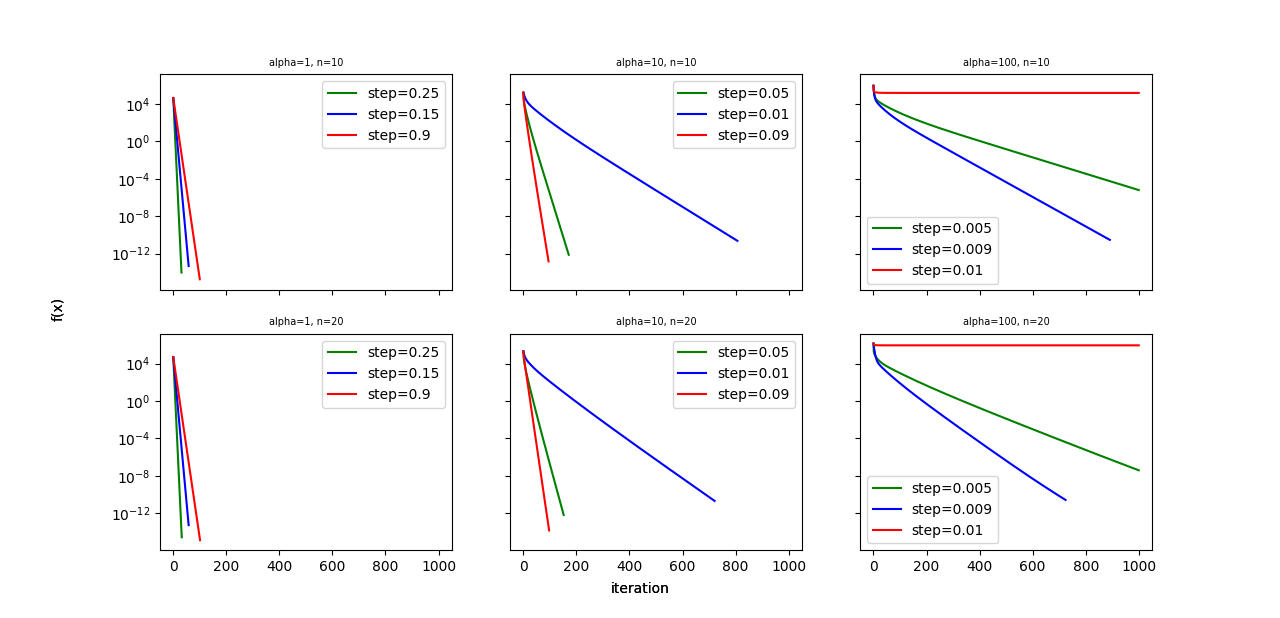
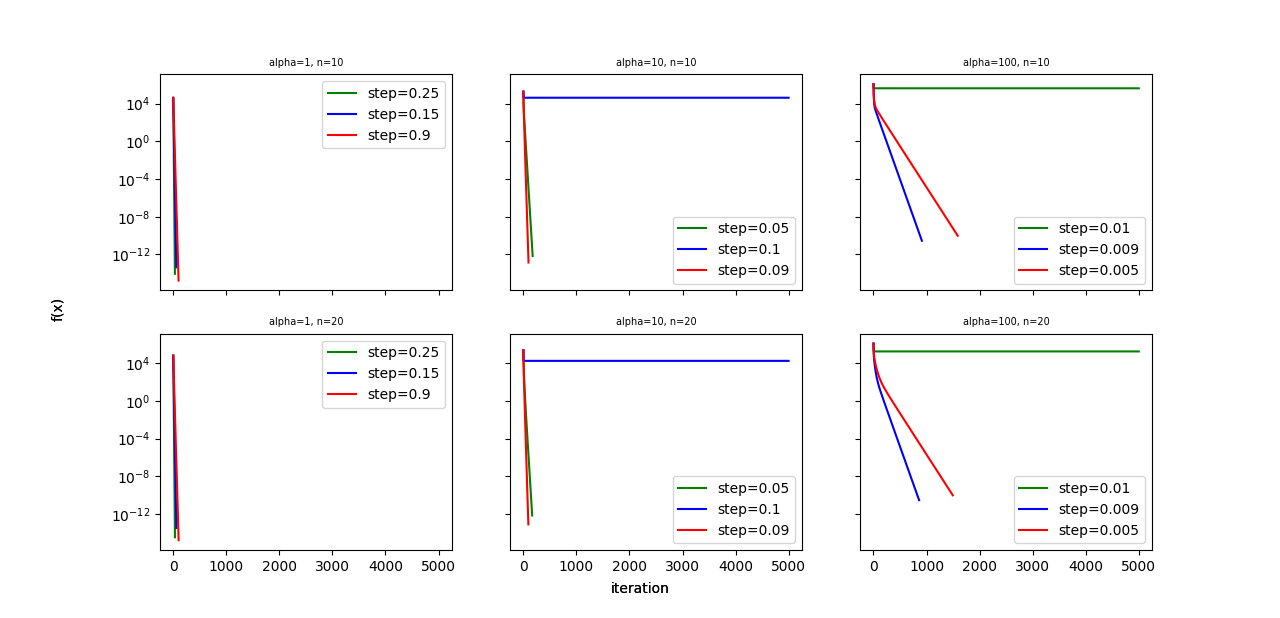
finished!

diff --git a/zadanie1/algorithms.py b/zadanie1/algorithms.py
@@ -12,108 +12,121 @@ from matplotlib import pyplot as plt
 MAX_X = 100
 
 
-# given function
 def f(x, alpha, n):
+    """
+    Objective function.
+    """
     result = 0
     for i in range(n):
         result += alpha**(i/(n-1))*x[i]**(2)
     return result
 
 
-gradient =  ndt.Gradient(f)
-hessian = ndt.Hessian(f)
+def message(iteration, max_iteration):
+    """
+    Returns message about why an algorithm finished working.
+    """
+    return "Algorithm reached iteration limit." if iteration == max_iteration else "Algorithm reached stop criterion."
 
-def gradientDescend(x0, func, step, alpha, n, error_margin=0.0000001, max_num_of_iter=1000):
+
+def gradientDescend(x0, func, step, error_margin=0.0000001, max_iteration=5000):
+    """
+    Implements gradient descend method of finding minimum od an objective function.
+
+    : param x0: array of begining co-ordinates
+    : param func: objective function
+    : param step: step of algorithm
+    : error_margin: defines the accuracy of stop criterion
+    : max_iteration: defines maximum number of iterations that the algorithm can perform
+    return: message why the algorithm finished working, co-ordinates of minimal value,
+            minimal value, number of iterations, value of function at every iteration (for plotting)
+    """
+    gradient =  ndt.Gradient(func)
+
     x = x0
     diff = x0
-    num_of_iterations = 0
-    y = [func(x0, alpha, n)]
+    iteration = 0
+    y = [func(x)]
 
     # stop criterion:
-    while np.linalg.norm(diff)>error_margin and num_of_iterations<max_num_of_iter:
+    while np.linalg.norm(diff)>error_margin and iteration<max_iteration:
         prev_x = x
-        d = gradient(prev_x, alpha, n)
+        d = gradient(prev_x)
         x = prev_x - step*d
 
         if any(abs(x))>100:
-            return (x, y, num_of_iterations)
+            return ("Divergent function", x, func(x), iteration)
 
         diff = prev_x-x
 
-        num_of_iterations += 1
-        y.append(func(x, alpha, n))
+        iteration += 1
 
-    return (x, y, num_of_iterations)
+        y.append(func(x))
+
+    return (message(iteration, max_iteration), x, func(x), iteration, y)
 
 
-def newton(x0, func, step, alpha, n, error_margin=0.0000001, max_num_of_iter=1000):
+def newton(x0, func, step, error_margin=0.0000001, max_iteration=5000):
+    """
+    Implements Newton's method of finding minimum od an objective function.
+
+    parameters the same as in gradientDescend
+    """
+    gradient =  ndt.Gradient(func)
+    hessian = ndt.Hessian(func)
+
     x = x0
     diff = x0
-    num_of_iterations = 0
-    y = [func(x0, alpha, n)]
-    # estymacja hessjanu:
-    #prev_inv_hess = np.linalg.inv(np.eye(n))
+    iteration = 0
+    y = [func(x)]
 
-    while np.linalg.norm(diff)>error_margin and num_of_iterations<max_num_of_iter:
+    while np.linalg.norm(diff)>error_margin and iteration<max_iteration:
         prev_x = x
         # d : hess(x)**(-1)*grad(x)
-        d = np.linalg.inv(hessian(prev_x, alpha, n))@gradient(prev_x, alpha, n)
-        # estymacja hesjanu:
-        #d = np.asarray(prev_inv_hess@gradient(x, alpha, n)).reshape(-1)
+        d = np.linalg.inv(hessian(prev_x))@gradient(prev_x)
 
         x = prev_x - step*d
         diff = prev_x-x
 
-        num_of_iterations += 1
-        y.append(func(x, alpha, n))
+        iteration += 1
+        y.append(func(x))
 
-        # dla estymacji hesjanu
-        # x_diff = np.transpose(np.matrix(np.subtract(prev_x, x)))
-        # grad_diff = np.transpose(np.matrix(np.subtract(gradient(prev_x, alpha, n), gradient(x, alpha, n))))
-        # prev_inv_hess = inv_hess(prev_inv_hess, x_diff, grad_diff)
-
-    return (x, y, num_of_iterations)
+    return (message(iteration, max_iteration), x, func(x), iteration, y)
 
 
-def newtonBtr(x0, func, step, alpha, n, betha=0.95, gamma=0.5, error_margin=0.0000001, max_num_of_iter=1000):
+def newtonBtr(x0, func, step, betha=0.9, gamma=0.5, error_margin=0.0000001, max_iteration=5000):
+    """
+    Implements Newton's method with backtracking of finding minimum od an objective function.
+
+    parameters the same as in gradientDescend and:
+    : param betha: how much will the step be adjusted
+    : param gamma: used in assertion of wheather step needs adjusting
+    """
+    gradient =  ndt.Gradient(func)
+    hessian = ndt.Hessian(func)
+
     x = x0
     diff = x0
     prev_x = x
-    num_of_iterations = 0
-    y = [func(x0, alpha, n)]
-    # estymacja hessjanu:
-    #prev_inv_hess = np.linalg.inv(np.eye(n))
-    t = 1
-    while np.linalg.norm(diff)>error_margin and num_of_iterations<max_num_of_iter:
+    iteration = 0
+    y = [func(x)]
+
+    while np.linalg.norm(diff)>error_margin and iteration<max_iteration:
         prev_x = x
 
         # d : hess(x)**(-1)*grad(x)
-        grad = gradient(prev_x, alpha, n)
-        d = np.linalg.inv(hessian(prev_x, alpha, n))@grad
-        # estymacja hesjanu:
-        #d = np.asarray(prev_inv_hess@gradient(x, alpha, n)).reshape(-1)
+        grad = gradient(prev_x)
+        d = np.linalg.inv(hessian(prev_x))@grad
 
-        x = prev_x - step*t*d
+        x = prev_x - step*d
         diff = prev_x-x
 
-        num_of_iterations += 1
-        y.append(func(x, alpha, n))
+        while func(x)>func(prev_x)+gamma*step*np.transpose(grad)@(-d):
+            step *= betha
+            x = prev_x - step*d
+            diff = prev_x-x
 
-        #TODO tutaj while czy if, i czy to przed czy po
-        if func(x, alpha, n)>func(prev_x, alpha, n)+gamma*t*np.transpose(grad)@(-d):
-            t = t*betha
+        iteration += 1
+        y.append(func(x))
 
-        # dla estymacji hesjanu
-        # x_diff = np.transpose(np.matrix(np.subtract(prev_x, x)))
-        # grad_diff = np.transpose(np.matrix(np.subtract(gradient(prev_x, alpha, n), gradient(x, alpha, n))))
-        # prev_inv_hess = inv_hess(prev_inv_hess, x_diff, grad_diff)
-
-    return (x, y, num_of_iterations)
-
-
-# DFP inverted hessian estimation
-def inv_hess(prev_inv_hess, x_diff, grad_diff):
-    x_diff_t = np.transpose(x_diff)
-    grad_diff_t = np.transpose(grad_diff)
-
-    return prev_inv_hess+x_diff@x_diff_t/(x_diff_t@grad_diff)-(prev_inv_hess@grad_diff@grad_diff_t@prev_inv_hess)/(grad_diff_t@prev_inv_hess@grad_diff)
+    return (message(iteration, max_iteration), x, func(x), iteration, y)

diff --git a/zadanie1/main.py b/zadanie1/main.py
@@ -4,14 +4,16 @@ import numdifftools as ndt
 from matplotlib import pyplot as plt
 from random import randint
 import pandas as pd
+from functools import partial
 from algorithms import gradientDescend, newton, newtonBtr, f
 from plotting import iterToMin
 
 
+
 def main():
 
-    alpha = [1, 10, 100]
-    n = [10, 20]
+    a = [1, 10, 100]
+    n0 = [10, 20]
     x0 = np.array([randint(-100, 100) for i in range(10)])
     x1 = np.array([randint(-100, 100) for i in range(20)])
 
@@ -27,71 +29,50 @@ def main():
         'backtracking' : []
     }
 
-    x2 = [-55, -64,  48, -48,  42, -68,  57, -19,  -5, -26]
-    # 2 eksperymenty czasowe
-    #TODO cos tu nie działa, backtracking powinien być szybszyyyyy
+    print(x0)
+    print(x1)
+
     # for i in range(3):
     #     t_start = time.process_time()
-    #     min, next_x, num_of_iter = gradientDescend(x0, f, steps["gradient"][i], alpha[i], n[0])
+    #     message, x, f_min, iter, y = gradientDescend(x0, partial(f, alpha=a[i], n=n0[0]), steps["gradient"][i])
     #     t_stop = time.process_time()
-    #     times_of_processing["grandient"].append((t_stop-t_start, num_of_iter))
+    #     times_of_processing["grandient"].append((t_stop-t_start, iter))
 
     #     t_start = time.process_time()
-    #     min, next_x, num_of_iter = newton(x0, f, steps["newton"][i], alpha[i], n[0])
+    #     message, x, f_min, iter, y = newton(x0, partial(f, alpha=a[i], n=n0[0]), steps["newton"][i])
     #     t_stop = time.process_time()
-    #     times_of_processing["newton"].append((t_stop-t_start, num_of_iter))
+    #     times_of_processing["newton"].append((t_stop-t_start, iter))
 
     #     t_start = time.process_time()
-    #     min, next_x, num_of_iter = newtonBtr(x0, f, steps["backtracking"][i], alpha[i], n[0])
+    #     message, x, f_min, iter, y = newtonBtr(x0, partial(f, alpha=a[i], n=n0[0]), steps["backtracking"][i])
     #     t_stop = time.process_time()
-    #     times_of_processing["backtracking"].append((t_stop-t_start, num_of_iter))
-
-    t_start = time.process_time()
-    min, next_x, num_of_iter = newton(x0, f, 0.8, 10, n[0])
-    t_stop = time.process_time()
-    print(t_stop-t_start)
-    print(num_of_iter)
-    print(min)
-
-    t_start = time.process_time()
-    min, next_x, num_of_iter = newtonBtr(x0, f, 0.8, 10, n[0])
-    t_stop = time.process_time()
-    print(t_stop-t_start)
-    print(num_of_iter)
-    print(min)
+    #     times_of_processing["backtracking"].append((t_stop-t_start, iter))
 
 
-    #print(pd.DataFrame(times_of_processing))
+    # print(pd.DataFrame(times_of_processing))
 
-
-    #plotting
-    # fig = plt.figure()
-    # min_step = iterToStep(gradientDescend, fig, alpha, step, 10, x0)
-    # min_step += iterToStep(gradientDescend, fig, alpha, step, 20, x1)
-    # print(min_step)
-
-    # fig2 = plt.figure()
-    # min_step = iterToStep(newton, fig2, alpha, step, 10, x0)
-    # min_step += iterToStep(newton, fig2, alpha, step, 20, x1)
-    # print(min_step)
-
-    # fig3 = plt.figure()
-    # min_step = iterToStep(newtonBacktracking, fig3, alpha, step, 10, x0)
-    # min_step += iterToStep(newtonBacktracking, fig3, alpha, step, 20, x1)
-    # print(min_step)
-
+    x0 = [ 84, -27, 8, 74, 59, -81, 14, -85, 78, -65]
+    # x1 = [ 33, 17, 10, -69, 79, 78, -85, 7, 85, -47, -15, 74, -71, -41, 22, -85, 23, -76, 5, -42]
+    #plotting - testy muszą być na tej samej wartości :/ - seed ustawić
     # fig4, axs = plt.subplots(2,3, sharex=True, sharey=True)
-    # iterToMin(gradientDescend, fig4, axs, alpha, [[0.25, 0.15, 0.9], [0.05, 0.1, 0.09], [0.01, 0.009, 0.005]], 10, x0)
-    # iterToMin(gradientDescend, fig4, axs, alpha, [[0.25, 0.15, 0.9], [0.05, 0.1, 0.09], [0.01, 0.009, 0.005]], 20, x1)
+    # iterToMin(gradientDescend, fig4, axs, a, [[0.25, 0.15, 0.9], [0.05, 0.1, 0.09], [0.01, 0.009, 0.005]], 10, x0)
+    # iterToMin(gradientDescend, fig4, axs, a, [[0.25, 0.15, 0.9], [0.05, 0.1, 0.09], [0.01, 0.009, 0.005]], 20, x1)
 
     # fig5, axs = plt.subplots(2,3, sharex=True, sharey=True)
-    # iterToMin(newton, fig5, axs, alpha, [[1, 2, 0.8], [1, 2, 0.8], [1, 2, 0.8]], 10, x0)
-    # iterToMin(newton, fig5, axs, alpha, [[1, 2, 0.8], [1, 2, 0.8], [1, 2, 0.8]], 20, x1)
+    # iterToMin(newton, fig5, axs, a, [[1, 0.4, 0.8], [0.1, 1, 0.5], [0.1, 1, 0.5]], 10, x0)
+    func = partial(f, alpha=1, n=10)
+    message, x, f_min, iter, next_y = newton(x0, func, 1.1)
+    print(message)
+    print(iter)
+    message, x, f_min, iter, next_y = newtonBtr(x0, func, 1.1)
+    print(message)
+    print(iter)
+    # iterToMin(newton, fig5, axs, a, [[1, 0.4, 0.8], [0.1, 1, 0.5], [0.1, 1, 0.5]], 20, x1)
 
-    #fig6, axs = plt.subplots(2,3, sharex=True, sharey=True)
-    #iterToMin(newtonBtr, fig6, axs, alpha, [[1, 2, 0.8], [1, 2, 0.8], [1, 2, 0.8]], 10, x0)
-    #iterToMin(newtonBtr, fig6, axs, alpha, [[1, 2, 0.8], [1, 2, 0.8], [1, 2, 0.8]], 20, x1)
-    #plt.show()
+    # fig6, axs = plt.subplots(2,3, sharex=True, sharey=True)
+    # iterToMin(newtonBtr, fig6, axs, a, [[1, 0.4, 0.8], [0.1, 1, 0.5], [0.1, 1, 0.5]], 10, x0)
+    # iterToMin(newtonBtr, fig6, axs, a, [[1, 0.4, 0.8], [0.1, 1, 0.5], [0.1, 1, 0.5]], 20, x1)
+    plt.show()
 
     #plt.savefig("iteration_to_step")
 

diff --git a/zadanie1/plotting.py b/zadanie1/plotting.py
@@ -1,20 +1,25 @@
 import numpy as np
 import numdifftools as ndt
 from matplotlib import pyplot as plt
+from functools import partial
 
-from algorithms import gradientDescend, newton, newtonBtr, inv_hess, f
+from algorithms import gradientDescend, newton, newtonBtr, f
 
 
-def iterToMin(algorithm, fig, axs, alpha, step, n, x0):
-    k = 0 if n==10 else 1
+def iterToMin(algorithm, fig, axs, a, step, n0, x0):
+    k = 0 if n0==10 else 1
     color = ['g', 'b', 'r']
     fig.text(0.5, 0.04, 'iteration', ha='center')
     fig.text(0.04, 0.5, 'f(x)', va='center', rotation='vertical')
-    for j in range(len(alpha)):
+    z = 1
+    for j in range(len(a)):
         for i in range(len(step[j])):
-            f_min, next_y, num_of_iter = algorithm(x0, f, step[j][i], alpha[j], n)
-            axs[k][j].plot(range(num_of_iter+1), next_y, f'{color[i]}', label=f'step={step[j][i]}')
+            func = partial(f, alpha=a[j], n=n0)
+            message, x, f_min, iter, next_y  = algorithm(x0, func, step[j][i])
+            axs[k][j].plot(range(iter+1), next_y, f'{color[i]}', label=f'step={step[j][i]}')
+            print(f"{z} done")
+            z +=1
         axs[k][j].set_yscale('log')
-        axs[k][j].title.set_text(f"alpha={alpha[j]}, n={n}")
+        axs[k][j].title.set_text(f"alpha={a[j]}, n={n0}")
         axs[k][j].title.set_size(7)
         axs[k][j].legend()
